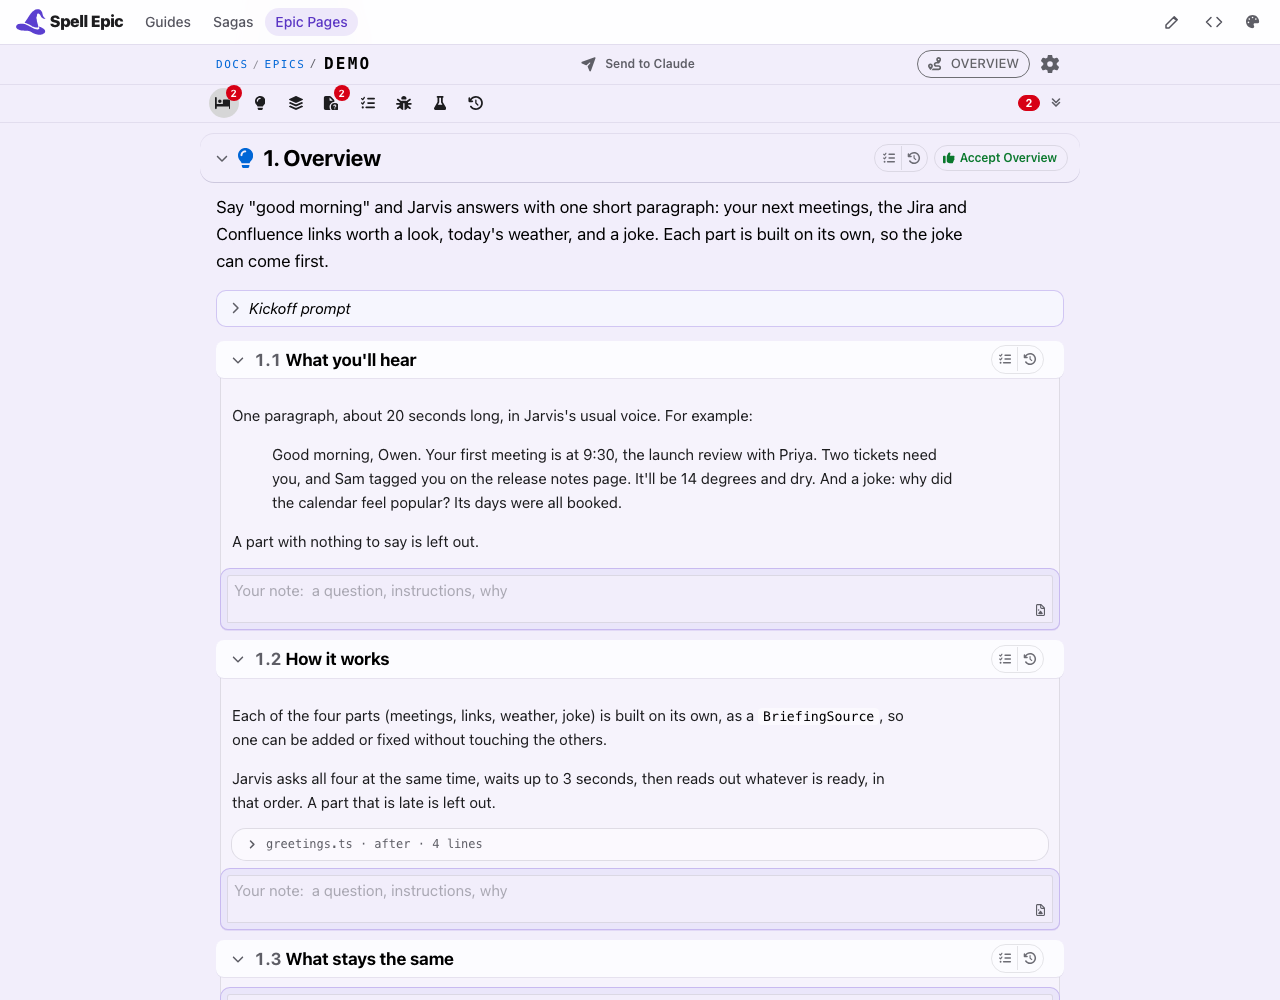
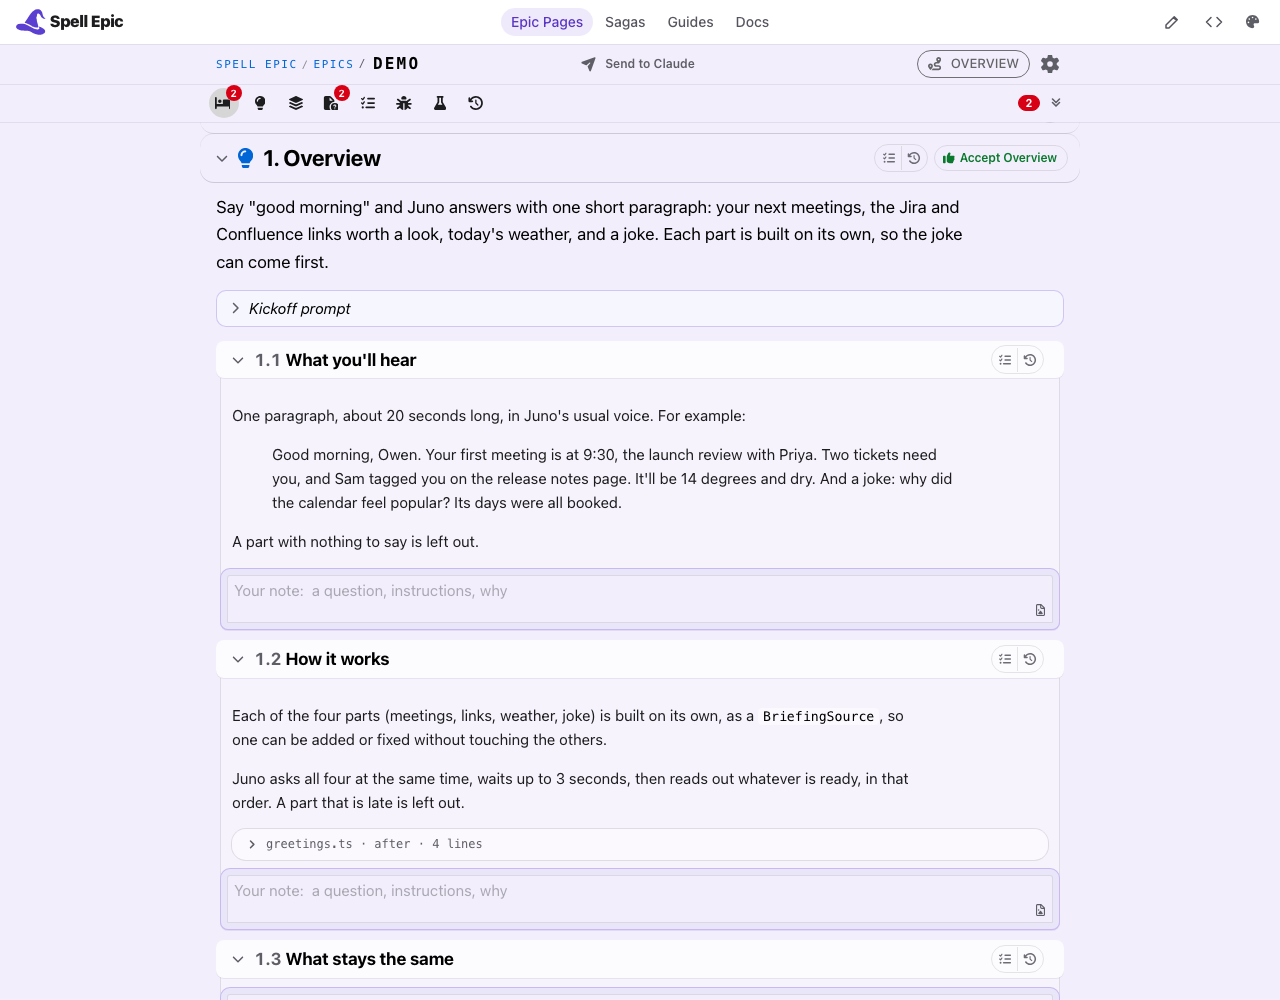
epic-engine I430:  no customer names in the comments, a template, two tests and four pictures
- comments say from-console;  the example of an epic whose branch isn't its id is from-project, on from-console
- the demo's overview, questions and building pictures shot again with Juno, as their captions already said
- How epics work's home picture says from-console

diff --git a/epic/src/config/EpicConfig.ts b/epic/src/config/EpicConfig.ts
@@ -917,7 +917,7 @@ export class EpicConfig {
    * Epic `epic`'s git branch:  its epic page's `<epic-page branch>`, else its id (epic `epic-engine` I378).
    * - THE one place every verb asks (merge, merge-main, worktree status, park ...):  never the id by itself
    * - set apart from the id by `epic update <epic> --branch <name>`:
-   *   `from-project` kept its id when its branch was renamed `from-console` (no customer names in branch names)
+   *   e.g. `from-project` keeps its id when its branch is renamed `from-console` (no customer names in branch names)
    * - the id for no page, a future epic's (no `branch`), and one written `(detached)` or the base branch
    *   (`epic create` in the main checkout wrote `main`), or one git has no branch for (a stale name)
    * - reads only the page's first few KB, where `<epic-page>` starts:  no parsing library, so plain `node` loads it

diff --git a/app/src/app/editor.ts b/app/src/app/editor.ts
@@ -3059,7 +3059,7 @@ function forgetCompiled(projectId: string): void {
 globalThis.window?.addEventListener("focus", () => compiledImports.clear())
 
 /**
- * Javascript of the code file a program imports as `module`, for `call native` (epic `from-project` P10):
+ * Javascript of the code file a program imports as `module`, for `call native` (epic `from-console` P10):
  * `@spell/native/owen@spell/clipboard/clipboard.ts` => `/spaces/owen@spell/clipboard/clipboard.ts?as=javascript`
  * (`SP.SpellUrls.codeFileUrl()`), which the page server answers with its types taken out.
  * - Fetched afresh each run, so an edit to it shows on the next.

diff --git a/app/src/app/components/spell-viewer/projectSource.ts b/app/src/app/components/spell-viewer/projectSource.ts
@@ -21,7 +21,7 @@ export function projectSource(projectId: string): SpellAppSource {
     declarationsUrl: builtUrl(projectId, DECLARATIONS_JSON),
     scopesUrl: builtUrl(projectId, SCOPES_JS),
     importUrl: (id) => builtUrl(id, COMPILED_JS),
-    // its code files' javascript, as the editor's runner reads them (`call native`, epic `from-project` P10)
+    // its code files' javascript, as the editor's runner reads them (`call native`, epic `from-console` P10)
     nativeUrl: (module) => SpellUrls.codeFileUrl(module),
     importDeclarationsUrl: (id) => builtUrl(id, DECLARATIONS_JSON),
     wordsUrl: builtUrl(projectId, WORDS_JS),

diff --git a/app/src/lsp/SpellDiskWorkspace.ts b/app/src/lsp/SpellDiskWorkspace.ts
@@ -78,7 +78,7 @@ export class SpellDiskWorkspace implements LSP.FileAddresses {
   }
 
   /**
-   * Javascript of the code file compiled spell imports as `module`, for `call native` (epic `from-project` P10):
+   * Javascript of the code file compiled spell imports as `module`, for `call native` (epic `from-console` P10):
    * `@spell/native/owen@spell/clipboard/clipboard.ts` => `clipboard.ts` from disk, its types taken out.
    * - What VS Code's runner links in (`spell/codeFile`), as the editor's runner links what the page server makes of it:
    *   the same `codeFileAsJavascript()`.

diff --git a/app/src/lsp/lsp.types.ts b/app/src/lsp/lsp.types.ts
@@ -309,7 +309,8 @@ export type CompiledImportParams = {
 }
 
 /**
- * Asked as `spell/codeFile`:  the javascript of a code file the project of `uri` calls (`call native`, epic `from-project` P10),
+ * Asked as `spell/codeFile`:  the javascript of a code file the project of `uri` calls
+ * (`call native`, epic `from-console` P10),
  * for VS Code's runner to link it in -- see `runCompiled()`'s `loadNative`.
  * - Answered with the file read fresh from disk, its types taken out (`SpellDiskWorkspace.codeFileJavascript()`).
  * - `null` if it isn't there, or isn't valid TypeScript (logged).

diff --git a/app/src/app/runner/SpellAppRunner.tsx b/app/src/app/runner/SpellAppRunner.tsx
@@ -369,7 +369,7 @@ export type SpellAppSource = {
   /** URL of the compiled javascript of project `projectId`, which it imports. */
   importUrl: (projectId: string) => string
   /**
-   * URL of the javascript of the code file it imports as `module`, for `call native` (epic `from-project` P10):
+   * URL of the javascript of the code file it imports as `module`, for `call native` (epic `from-console` P10):
    * a project's is its server's, `SpellUrls.codeFileUrl()`.
    * - None:  a program that calls one won't run, and says so (`runCompiled()`).
    */

diff --git a/app/src/app/runner/VSCodeRunner.tsx b/app/src/app/runner/VSCodeRunner.tsx
@@ -294,7 +294,7 @@ export function VSCodeRunner(props: VSCodeRunnerProps) {
   }
 
   /**
-   * Javascript of the code file the program calls as `module` (`call native`, epic `from-project` P10),
+   * Javascript of the code file the program calls as `module` (`call native`, epic `from-console` P10),
    * e.g. `@spell/native/owen@spell/clipboard/clipboard.ts`:  from the extension, which asks the language server
    * (`spell/codeFile`) to take its types out.
    * - Asked for afresh each run, so an edit to it shows on the next;  once, however many wait.

diff --git a/epic/src/tool/PlanDoc.ts b/epic/src/tool/PlanDoc.ts
@@ -3153,7 +3153,7 @@ export class PlanDoc extends PlanReader {
   /**
    * The epic's git branch, apart from its id (`epic update <epic> --branch <name>`, epic `epic-engine` I378):
    * `<epic-page branch>`, which `EpicConfig.branchOf()` reads for every verb that finds the branch.
-   * - e.g. `from-project` kept its id when its branch was renamed `from-console`
+   * - e.g. `from-project` keeps its id when its branch is renamed `from-console`
    */
   setBranch(branch: string): void {
     const was = this.page.getAttribute("branch")

diff --git a/parser/src/spell/SpellUrls.ts b/parser/src/spell/SpellUrls.ts
@@ -49,7 +49,7 @@ export const SpellUrls = {
   },
 
   /**
-   * Address of the code file compiled spell imports as `module`, for `call native` (epic `from-project` P10):
+   * Address of the code file compiled spell imports as `module`, for `call native` (epic `from-console` P10):
    * `@spell/native/owen@spell/clipboard/clipboard.ts` => `owen@spell/clipboard/clipboard.ts`.
    * - throws `TypeError` for a module that isn't a code file's
    */

diff --git a/epic/templates/epics/plan-doc.md b/epic/templates/epics/plan-doc.md
@@ -156,9 +156,9 @@ A FUTURE epic (`/epic future <name>`, epic `epic-future`, 2026-10-07): an idea w
 The page's BRANCH (`<epic-page branch>`, epic `epic-engine` I378): the epic's git branch, its id unless it names
 another (`EpicConfig.branchOf()`, which every verb asks: merge, merge-main, worktree status, pr ...).
 
-- `epic update <name> --branch <branch>` sets it, for a branch renamed apart from its id (epic `from-project`, branch
-  `from-console`: no customer names in branch names); its worktree is found by that branch when its folder is named
-  otherwise
+- `epic update <name> --branch <branch>` sets it, for a branch renamed apart from its id (say epic `from-project`,
+  branch `from-console`: no customer names in branch names); its worktree is found by that branch when its folder
+  is named otherwise
 - one naming the base branch (`main`, written by `new` in the main checkout), or a branch git doesn't have (a stale
   name), reads as the id
 
